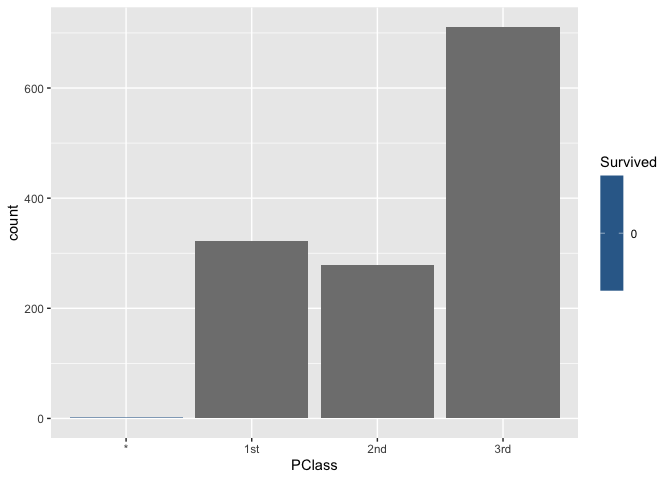
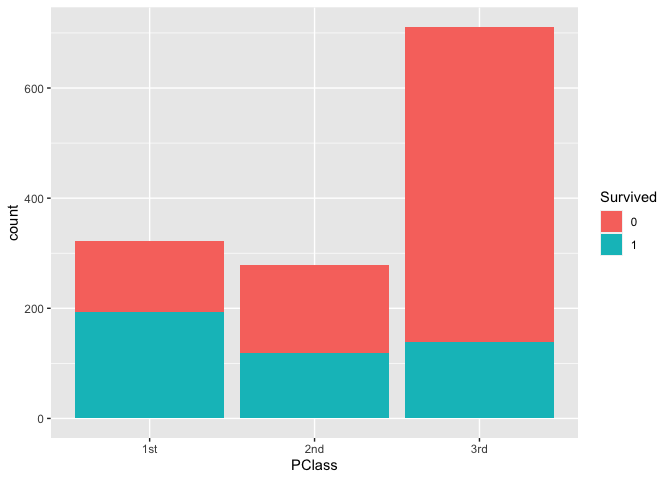
Final file assignment_6

diff --git a/Assignment_6.md b/Assignment_6.md
@@ -2,7 +2,7 @@ Assignment 6: Relational data plus revisiting data wrangling and
 visualization
 ================
 
-\#\#**Instructions: Please read through this before you begin**
+## **Instructions: Please read through this before you begin**
 
   - This assignment is due by **10pm on Monday 11/02/20.**
 
@@ -34,20 +34,6 @@ visualization
 
 ``` r
 library(tidyverse)
-```
-
-    ## ── Attaching packages ─────────────────────────────────────────────────── tidyverse 1.3.0 ──
-
-    ## ✓ ggplot2 3.3.2     ✓ purrr   0.3.4
-    ## ✓ tibble  3.0.3     ✓ dplyr   1.0.2
-    ## ✓ tidyr   1.1.2     ✓ stringr 1.4.0
-    ## ✓ readr   1.3.1     ✓ forcats 0.5.0
-
-    ## ── Conflicts ────────────────────────────────────────────────────── tidyverse_conflicts() ──
-    ## x dplyr::filter() masks stats::filter()
-    ## x dplyr::lag()    masks stats::lag()
-
-``` r
 library(knitr)
 ```
 
@@ -62,119 +48,24 @@ course STOR 290: Introduction to Data Science.
 ``` r
 ## for 4.1
 toy1 <- read_csv('https://raw.githubusercontent.com/idc9/stor390/master/data/joins/toy_one.csv')
-```
-
-    ## Parsed with column specification:
-    ## cols(
-    ##   key = col_character(),
-    ##   value = col_character()
-    ## )
-
-``` r
 toy2 <- read_csv('https://raw.githubusercontent.com/idc9/stor390/master/data/joins/toy_two.csv')
-```
 
-    ## Parsed with column specification:
-    ## cols(
-    ##   label = col_character(),
-    ##   animal = col_character()
-    ## )
-
-``` r
 ## for 4.2
 play1 <- read_csv('https://raw.githubusercontent.com/idc9/stor390/master/data/joins/play_one.csv')
-```
-
-    ## Parsed with column specification:
-    ## cols(
-    ##   key = col_character(),
-    ##   label = col_character(),
-    ##   value = col_double()
-    ## )
-
-``` r
 play2 <- read_csv('https://raw.githubusercontent.com/idc9/stor390/master/data/joins/play_two.csv')
-```
 
-    ## Parsed with column specification:
-    ## cols(
-    ##   key = col_character(),
-    ##   label = col_character(),
-    ##   othervalue = col_double()
-    ## )
-
-``` r
 ## for 4.3
 banking_account_types <- read_csv('https://raw.githubusercontent.com/idc9/stor390/master/data/joins/banking_account_types.csv')
-```
-
-    ## Parsed with column specification:
-    ## cols(
-    ##   account_id = col_character(),
-    ##   account_type = col_character()
-    ## )
-
-``` r
 banking_transactions <- read_csv('https://raw.githubusercontent.com/idc9/stor390/master/data/joins/banking_transactions.csv')
-```
 
-    ## Parsed with column specification:
-    ## cols(
-    ##   id = col_character(),
-    ##   transaction_amount = col_double()
-    ## )
-
-``` r
 ## for 4.4
 crime_arrests <- read_csv('https://raw.githubusercontent.com/idc9/stor390/master/data/joins/crime_arrests.csv')
-```
-
-    ## Parsed with column specification:
-    ## cols(
-    ##   State = col_character(),
-    ##   Murder = col_double(),
-    ##   Assault = col_double(),
-    ##   UrbanPop = col_double(),
-    ##   Rape = col_double()
-    ## )
-
-``` r
 crime_wealth <- read_csv('https://raw.githubusercontent.com/idc9/stor390/master/data/joins/crime_wealth.csv')
-```
 
-    ## Parsed with column specification:
-    ## cols(
-    ##   Rank = col_double(),
-    ##   State = col_character(),
-    ##   `2014` = col_double(),
-    ##   `2010` = col_double(),
-    ##   `2009` = col_double(),
-    ##   `2007` = col_double()
-    ## )
-
-``` r
 ## for 4.5
 titanic_outcomes <- read_csv('https://raw.githubusercontent.com/idc9/stor390/master/data/joins/titanic_outcomes.csv')
-```
-
-    ## Parsed with column specification:
-    ## cols(
-    ##   PID = col_double(),
-    ##   Survived = col_double()
-    ## )
-
-``` r
 titanic_person_features <- read_csv('https://raw.githubusercontent.com/idc9/stor390/master/data/joins/titanic_person_features.csv')
 ```
-
-    ## Parsed with column specification:
-    ## cols(
-    ##   PID = col_double(),
-    ##   Name = col_character(),
-    ##   PClass = col_character(),
-    ##   Age = col_double(),
-    ##   Sex = col_character()
-    ## )
 
 **1.1 Join the `toy` datasets. Only keep rows that have matches in the
 other dataset. Show the resulting dataset using `kable()`.**
@@ -257,10 +148,14 @@ titanic_person_features2 <- titanic_person_features %>%
   select(PID, PClass) 
 #View(titanic_person_features2)
 
-titanic_person_features2 %>% 
-  left_join(titanic_outcomes, by = "PID") %>% 
-  group_by(PClass) %>% 
-  ggplot(mapping = aes(x = PClass, fill = Survived)) +
+titanic_person_features3 <-  titanic_person_features2 %>% 
+  left_join(titanic_outcomes, by = "PID") 
+titanic_person_features3 $Survived<-as.factor(titanic_person_features3 $Survived)
+
+titanic_person_features3 %>% 
+group_by(PClass) %>% 
+ ggplot(mapping = aes(x = PClass, fill = Survived)) +
+  xlim("1st","2nd", "3rd")+
   geom_bar() 
 ```
 
@@ -286,11 +181,11 @@ kable(head(mtcars))
 | Hornet Sportabout | 18.7 |   8 |  360 | 175 | 3.15 | 3.440 | 17.02 |  0 |  0 |    3 |    2 |
 | Valiant           | 18.1 |   6 |  225 | 105 | 2.76 | 3.460 | 20.22 |  1 |  0 |    3 |    1 |
 
-\*\*Reproduce the following plot, which shows the miles per gallon (mpg)
+**Reproduce the following plot, which shows the miles per gallon (mpg)
 of car models on the x axis (see hints below). Different models are
 ordered on the y axis according to their `mpg` and their names are shown
 next to the data points. Also, the size of each data point maps to its
-horse power (`hp`), and the color maps to number of cylinders (`cyl`).
+horse power (`hp`), and the color maps to number of cylinders (`cyl`).**
 
 ``` r
 mtcars1<-rownames_to_column(mtcars) 
@@ -308,6 +203,19 @@ mtcars2<-mtcars1 %>%
 | Hornet 4 Drive    | 21.4 |         21 |   6 | 110 |
 | Hornet Sportabout | 18.7 |         15 |   8 | 175 |
 | Valiant           | 18.1 |         14 |   6 | 105 |
+
+``` r
+ggplot(mtcars2, aes(x = mpg, y = mpg_order, label = rowname))+  #, color = cyl)+
+   
+   geom_point(aes(size = hp, color = cyl)) + geom_text(aes(label = rowname), hjust =0) +
+                
+   xlim(10, 40)+
+     
+   labs(x = "Miles per gallon fuel consumption",
+        y = "")
+```
+
+![](Assignment_6_files/figure-gfm/unnamed-chunk-11-1.png)<!-- -->
 
 **Hint1: Start by transforming the data frame into the following
 format.**
